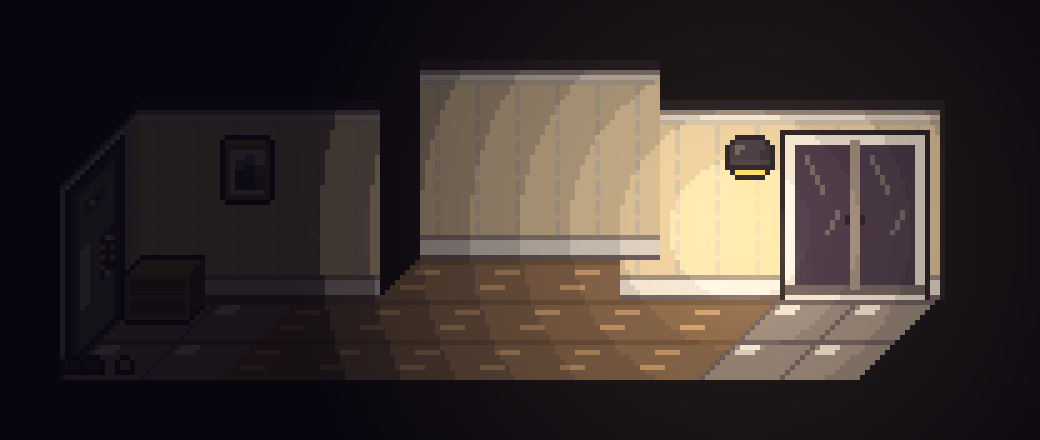
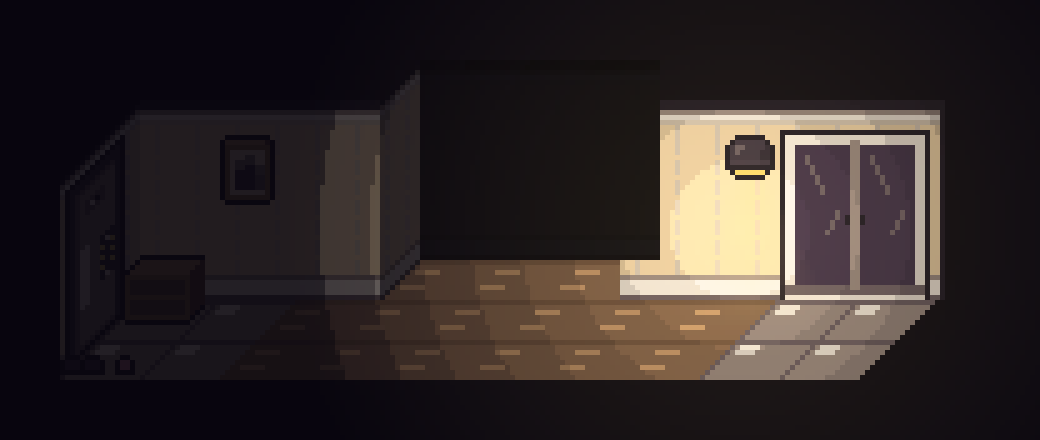
Corridor: recessed front panel black, side face dark wall color
Claude-Session: https://claude.ai/code/session_01FPZSaKiVNU2zED737yZX4w

Changed region(s): [[0.3385, 0.1477, 0.6462, 0.6795]]

diff --git a/tools/render_room.py b/tools/render_room.py
@@ -90,7 +90,7 @@ def render_room(path, scale=1):
                 else: nm, ty = tile(rows[top_row][c]), int(wallh - 1 - z)
                 glass = extra_dark and 16 <= z < 32 and c - c0 in (ra, ra + 1)                          # 안쪽 벽에 희미한 푸른 창: 방이 더 이어진다는 단서
                 if glass: nm = 'window_kr_l' if c - c0 == ra else 'window_kr_r'
-                r_, g_, b_, a_ = get(nm, int(x), ty); px[X, Y] = ((int(r_ * .38), int(g_ * .42), int(b_ * .55), a_) if glass else (int(r_ * .06), int(g_ * .06), int(b_ * .08), a_)) if extra_dark else (int(r_ * .9), int(g_ * .9), int(b_ * .92), a_)       # 안쪽은 어둡게(recess_dark면 거의 검정)
+                r_, g_, b_, a_ = get(nm, int(x), ty); px[X, Y] = ((int(r_ * .38), int(g_ * .42), int(b_ * .55), a_) if glass else (int(r_ * .06), int(g_ * .06), int(b_ * .08), a_)) if extra_dark else ((int(r_ * .03), int(g_ * .03), int(b_ * .05), a_) if extra.get('recess_panel') == 'black' else (int(r_ * .9), int(g_ * .9), int(b_ * .92), a_))       # 안쪽은 어둡게(recess_dark면 거의 검정)
         for X in range(int(X0 + ra * T + SK * D), int(X0 + ra * T + SK * (D + RD)) + 1) if extra.get('recess_side') != 'none' else []:     # none: 옆벽은 시점에서 보이지 않으므로 그리지 않는다
             d = (X + .5 - X0 - ra * T) / SK
             if not (D <= d < D + RD): continue
@@ -98,7 +98,7 @@ def render_room(path, scale=1):
                 z = (Y0 - SS * d) - (Y + .5)
                 if not (0 <= z < wallh): continue
                 nm, ty = (names['base'], 15 - int(z)) if z < 16 else (names['mid'], 15 - int(z - 16)) if z < 32 else (names['top'], int(wallh - 1 - z))
-                r_, g_, b_, a_ = get(nm, int(d), ty); fk_ = .04 if extra.get('recess_side') == 'hidden' else (.25 if extra_dark else .72)
+                r_, g_, b_, a_ = get(nm, int(d), ty); fk_ = .04 if extra.get('recess_side') == 'hidden' else (.38 if extra.get('recess_side') == 'dark' else (.25 if extra_dark else .72))
                 px[X, Y] = (int(r_ * fk_), int(g_ * fk_), int(b_ * fk_ * 1.1), a_)
     emitters = []
     def stamp(name, left, bottom):                           # 정면 스프라이트 (왼쪽 아래 모서리 기준)

diff --git a/tools/render_maps.py b/tools/render_maps.py
@@ -43,7 +43,7 @@ def load_map(path):
             m['tone'] = tuple(int(v) for v in line[5:].split())
         elif line.startswith('ambient:'):
             m['ambient'] = float(line[8:])
-        elif line.startswith(('view:', 'left_wall:', 'left_add:', 'sky_rows:', 'front_wall:', 'front_door:', 'front_glow:', 'recess:', 'recess_dark:', 'recess_depth:', 'recess_side:')) and section is None:
+        elif line.startswith(('view:', 'left_wall:', 'left_add:', 'sky_rows:', 'front_wall:', 'front_door:', 'front_glow:', 'recess:', 'recess_dark:', 'recess_depth:', 'recess_side:', 'recess_panel:')) and section is None:
             m.setdefault('extra', {})[line.split(':')[0]] = line.split(':', 1)[1].strip()      # 사선 시점 방(render_room.py)용 추가 줄
         elif line.startswith('dream:'):
             m['dream'] = dict(p.split('=') for p in line[6:].split())
